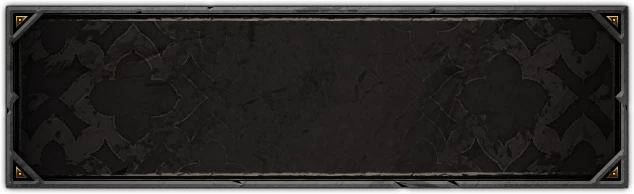
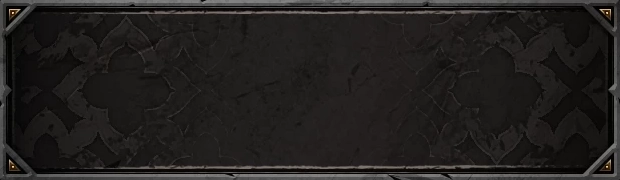
updated dndbutton styling - added glow effect on hover and click

Changed region(s): [[0.0, 0.0, 1.0, 1.0], [0.2145, 0.2778, 0.2452, 0.3056]]

diff --git a/src/components/DndButton/DndButton.css b/src/components/DndButton/DndButton.css
@@ -1,15 +1,12 @@
 @import url('https://fonts.googleapis.com/css2?family=Ibarra+Real+Nova:wght@400;500;700&display=swap');
 
 .button {
-	background: none;
-	border: none;
 	padding: 0;
-  font-family: 'Ibarra Real Nova', serif;
-  font-weight: 500;
-  letter-spacing: 1px;
-	cursor: pointer;
-  width: 150px;
+  background: none;
+	border: none;
+  cursor: pointer;
   height: 50px;
+  width: 150px;
 }
 
 .container {
@@ -21,47 +18,55 @@
   width: 100%;
 }
 
-.frame {
-  height: 100%;
-  width: 100%;
-  object-fit: fill;
+.button .button-text {
+  position: absolute;
+  text-align: center;
+
+  font-family: 'Ibarra Real Nova', serif;
+  font-size: 19px;
+  font-weight: 500;
+  letter-spacing: 1px;
+  color: rgb(200, 200, 200);
+  text-shadow: 1px 1px 2px#000000;
 }
 
-.frameOverlay {
+.frame { 
+  object-fit: fill; /*allows button_default to stretch*/
+  height: 100%;
+  width: 100%;
+}
+
+.frame-overlay {
   position: absolute;
   top: 0;
   left: 0;
   color: #f1f1f1;
-  height: 100%;   
-  width: 100%;    
-  
-  transition: .3s ease;
   opacity: 0;
+  height: 100%;
+  width: 100%;
 }
 
-.color-overlay {
-  position: absolute;  
-  top: 0;  
-  left: 0; 
-  height: 100%;   
-  width: 100%;   
-  opacity: 0;   
-  transition: .3s ease;   
-  background-color: #ba9500;
-}
-
-.container:hover .color-overlay{
-  opacity: .05;
-}
-
-
-.button .button-text {
-  color: rgb(200, 200, 200);
-  font-size: 15px;
+.button-default-highlight {
   position: absolute;
-  text-align: center;
+  top: 0;
+  left: 0;
+  filter: drop-shadow(0px 1px 3px #ff0000);
+  opacity: 0;
+  height: 100%;
+  width: 100%;
 }
 
-.container:hover .frameOverlay {
+.container:hover .frame-overlay {
+  transition: .3s ease;
   opacity: 1;
+}
+
+.container:hover .button-default-highlight {
+  transition: 1s ease;
+  opacity: .15;
+}
+
+.container:hover:active .button-default-highlight {
+  transition: 0s;
+  opacity: .4;
 }

diff --git a/src/components/DndButton/DndButton.jsx b/src/components/DndButton/DndButton.jsx
@@ -1,15 +1,17 @@
 import './DndButton.css';
-import button_default from '../../utility/img/button_default_cropped.webp';
+import button_default from '../../utility/img/button_default.webp';
+import button_default_highlight from '../../utility/img/button_default_highlight.webp';
 import button_frame from '../../utility/img/button_frame.webp';
 
 const DndButton = ({ disabled, sizeVariant, text, onClick }) => {
   return (
     <button class="button" disabled={disabled} onClick={onClick}>
       <div class="container">
+        <img src={button_default_highlight} alt="Avatar" class="button-default-highlight" />
         <div class="button-text">{text}</div>
         <img src={button_default} alt="Avatar" class="frame" />
-        <img src={button_frame} alt="Avatar" class="frameOverlay" />
-        <div class="color-overlay"/>
+        <img src={button_frame} alt="Avatar" class="frame-overlay" />
+
       </div>
     </button>
   );
